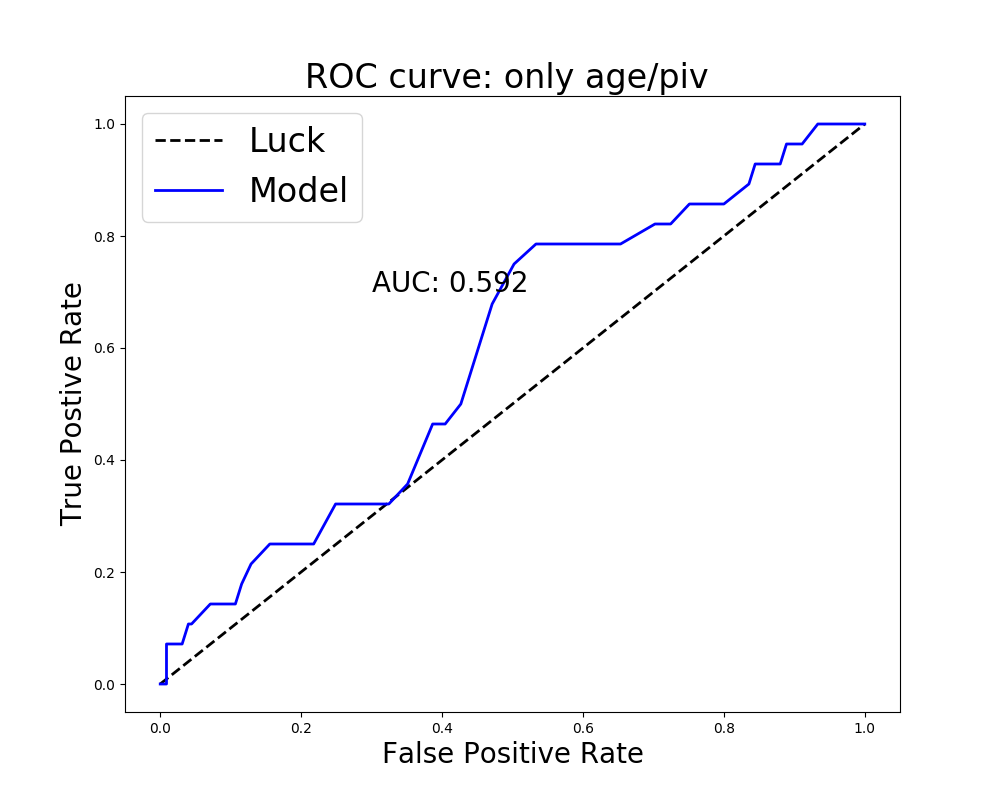
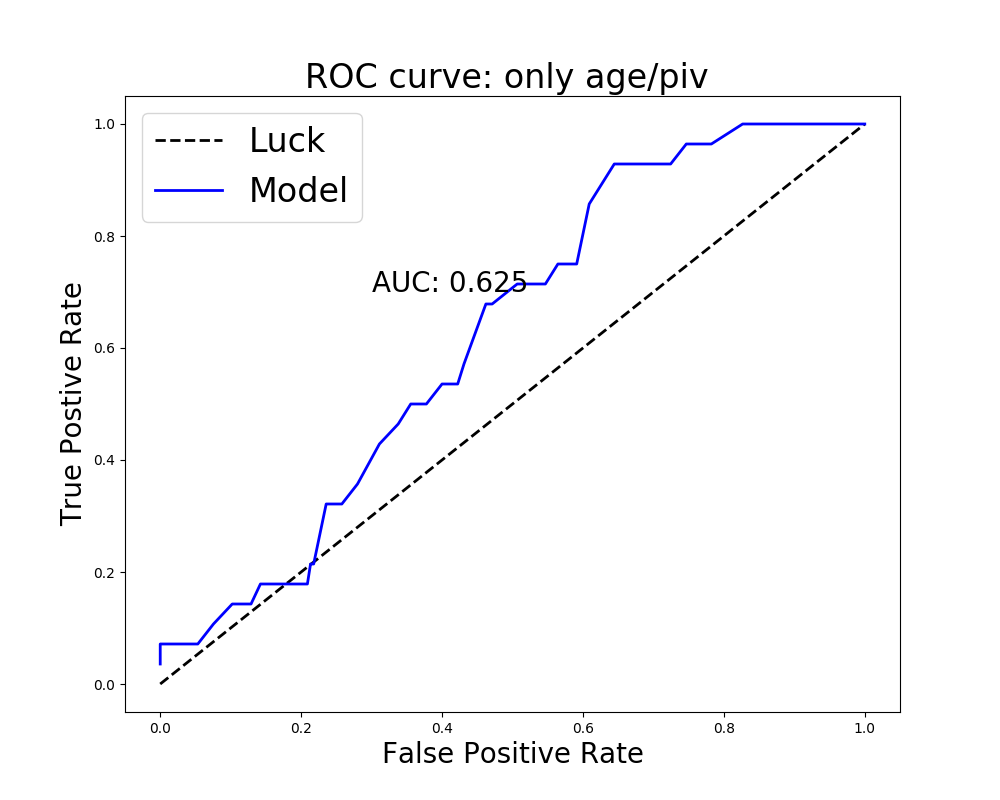
fixing figures

diff --git a/src/final_mod.py b/src/final_mod.py
@@ -31,23 +31,22 @@ X_train_3 = X_train.drop(['eth_african_american', 'eth_asian',
 X_test_1 = X_test.drop(['eth_african_american', 'eth_asian',
       'eth_mexican_hispanic', 'eth_mixed_race', 'eth_other_hispanic', 'thyroid_yes', 'physical_activity_some', 'physical_activity_moderate','physical_activity_vigorous','piv_yes'], axis = 1)
 
-model_sm = sm.Logit(y_test, sm.add_constant(X_test_1))
 
-print(model_sm.fit().summary())
 #std train data here
-model_final = LogisticRegression(class_weight={0:1, 1:10})
+model_final = LogisticRegression(class_weight='balanced')
 model_final.fit(X_train_3.values, y_train.values)
 
 # use same scaler to transform test X
 
 probs = model_final.predict_proba(X_test_1)[:, 1]
-probabilities = np.where(probs >= 0.5, 1, 0)
+probabilities = np.where(probs >= 0.4, 1, 0)
 probs1 = model_final.predict_proba(X_train_3)[:, 1]
-probabilities1 = np.where(probs1 >= 0.5, 1, 0)
+probabilities1 = np.where(probs1 >= 0.4, 1, 0)
 
 accuracy_final = metrics.accuracy_score(y_test, probabilities)
 precision_final = metrics.precision_score(y_test, probabilities)
 recall_final = metrics.recall_score(y_test, probabilities)
+recall_tr = metrics.recall_score(y_train, probabilities1)
 f1_score_final = metrics.f1_score(y_test, probabilities)
 
 fpr, tpr, thresholds = metrics.roc_curve(y_test, probs)
@@ -66,8 +65,8 @@ ax.plot(fpr1, tpr1, color='r', lw=2, label='Train Model')
 ax.set_xlabel("False Positive Rate", fontsize=20)
 ax.set_ylabel("True Postive Rate", fontsize=20)
 ax.set_title("ROC curve: Final Model", fontsize=24)
-ax.text(0.2, 0.7, " ".join(["AUC:",str(auc_final.round(3))]), fontsize=20, color = 'b')
-ax.text(0.2, 0.6, " ".join(['AUC:',str(auc_train.round(3))]), fontsize=20, color = 'r')
+ax.text(0.15, 0.65, " ".join(["AUC:",str(auc_final.round(3))]), fontsize=20, color = 'b')
+ax.text(0.15, 0.6, " ".join(['AUC:',str(auc_train.round(3))]), fontsize=20, color = 'r')
 ax.legend(fontsize=24)
 
 plt.savefig('../images/ROC_final.png')
@@ -104,20 +103,26 @@ def generate_confusion_matrix(y_test, y_pred, labels, title, filename, show=Fals
 generate_confusion_matrix(conf_y_true_lab, conf_y_pro_lab, labels = ['infertile', 'fertile'], title = "Confusion Matrix of Final Model", filename = '../images/confusion_mat.png', show = False)
 
 ############ running it on the final holdout:
+
 X_holdout, y_holdout, df_nodum_test, df_full_test = clean.clean_data(test_df)
 
 X_holdout = X_holdout.drop(['eth_african_american', 'eth_asian',
       'eth_mexican_hispanic', 'eth_mixed_race', 'eth_other_hispanic', 'thyroid_yes', 'physical_activity_some', 'physical_activity_moderate','physical_activity_vigorous', 'piv_yes'], axis = 1)
 
+model_sm = sm.Logit(y_holdout, sm.add_constant(X_holdout))
+
+print(model_sm.fit().summary())
+
 probs_h = model_final.predict_proba(X_holdout)[:, 1]
-probabilities_h = np.where(probs_h >= 0.5, 1, 0)
+probabilities_h = np.where(probs_h >= 0.4, 1, 0)
 probs1_h = model_final.predict_proba(X_train_3)[:, 1]
-probabilities1_h = np.where(probs1_h >= 0.5, 1, 0)
+probabilities1_h = np.where(probs1_h >= 0.4, 1, 0)
 
 accuracy_final_holdout = metrics.accuracy_score(y_holdout, probabilities_h)
 precision_final_holdout = metrics.precision_score(y_holdout, probabilities_h)
 recall_final_holdout = metrics.recall_score(y_holdout, probabilities_h)
 f1_score_final_holdout = metrics.f1_score(y_holdout, probabilities_h)
+recall_train = metrics.recall_score(y_train, probabilities1_h)
 
 fpr_h, tpr_h, thresholds_h = metrics.roc_curve(y_holdout, probs_h)
 fpr1_h, tpr1_h, thresholds1_h = metrics.roc_curve(y_train, probs1_h)
@@ -135,8 +140,8 @@ ax.plot(fpr1_h, tpr1_h, color='r', lw=2, label='Train Model')
 ax.set_xlabel("False Positive Rate", fontsize=20)
 ax.set_ylabel("True Postive Rate", fontsize=20)
 ax.set_title("ROC curve: Holdout Model", fontsize=24)
-ax.text(0.2, 0.7, " ".join(["AUC:",str(auc_final_holdout.round(3))]), fontsize=20, color = 'b')
-ax.text(0.2, 0.6, " ".join(['AUC:',str(auc_train_holdout.round(3))]), fontsize=20, color = 'r')
+ax.text(0.15, 0.65, " ".join(["AUC:",str(auc_final_holdout.round(3))]), fontsize=20, color = 'b')
+ax.text(0.15, 0.6, " ".join(['AUC:',str(auc_train_holdout.round(3))]), fontsize=20, color = 'r')
 ax.legend(fontsize=24)
 
 plt.savefig('../images/ROC_holdout.png')
@@ -146,24 +151,58 @@ conf_y_true = y_holdout.values
 conf_y_true_lab = np.where(conf_y_true == 0, 'fertile', 'infertile')
 conf_y_pro = probabilities_h
 conf_y_pro_lab = np.where(conf_y_pro == 0, 'fertile', 'infertile')
-generate_confusion_matrix(conf_y_true_lab, conf_y_pro_lab, labels = ['infertile', 'fertile'], title = "Confusion Matrix of Final Holdout Data", filename = '../images/confusion_mat_holdout.png', show = True)
+generate_confusion_matrix(conf_y_true_lab, conf_y_pro_lab, labels = ['infertile', 'fertile'], title = "Confusion Matrix of Final Holdout Data", filename = '../images/confusion_mat_holdout.png', show = False)
 
+print(recall_tr)
+print(recall_train)
 print(recall_final)
 print(recall_final_holdout)
 
-########## proportional bar chart
+########## proportional bar chart ############
 
 df_nodum_cat = df_nodum[['sti','irr_periods', 'smoke']]
-
-# df_longdum = pd.wide_to_long(df_nodum_cat)
-# var = df_nodum_cat.groupby(['sti','piv', 'irr_periods', 'smoke'])
-# df['proportion'] = df['value']/df.groupby(['Color','variable'])['value'].transform('sum')
 x_var = ['STIs',  'Irregular Periods', 'Smoking Status']
-sti_arr = df_nodum_cat['sti'].value_counts()/len(df_nodum_cat)
-# piv_arr = df_nodum_cat['piv'].value_counts()/len(df_nodum_cat)
-periods_arr = df_nodum_cat['irr_periods'].value_counts()/len(df_nodum_cat)
-smoke_arr = df_nodum_cat['smoke'].value_counts()/len(df_nodum_cat)
-#
-# first_ = np.array([])
-#
-# ind = [x for x, _ in enumerate(x_var)]
+sti_arr = df_nodum_cat['sti'].value_counts()
+periods_arr = df_nodum_cat['irr_periods'].value_counts()
+smoke_arr = df_nodum_cat['smoke'].value_counts()
+ind = [x for x, _ in enumerate(x_var)]
+no_ = np.array([sti_arr[0], periods_arr[0],smoke_arr[0]])
+yes_ = np.array([sti_arr[1], periods_arr[1],smoke_arr[1]])
+former_ = np.array([0, 0, smoke_arr[2]])
+
+total = len(df_nodum_cat)
+
+proportion_no = np.true_divide(no_, total) * 100
+proportion_yes = np.true_divide(yes_, total) * 100
+proportion_former = np.true_divide(former_, total) * 100
+
+plt.figure(figsize=(15,16))
+plt.bar(ind, proportion_former, width=0.8, label='Former Smoker', color='gray', bottom=proportion_no + proportion_yes)
+plt.bar(ind, proportion_yes, width=0.8, label='Yes or Current Smoker', color='salmon', bottom=proportion_no)
+plt.bar(ind, proportion_no, width=0.8, label='No or Never Smoker', color='navy')
+
+plt.xticks(ind, x_var, fontsize = 14)
+plt.ylabel("Percent (%)", fontsize = 16)
+plt.xlabel("Categorical Parameters", fontsize = 16)
+plt.title("Proportional Percent of Categorical Parameters in Training Data", fontsize = 18)
+plt.ylim=1.0
+plt.legend(loc='upper center', bbox_to_anchor=(1, -0.034))
+
+plt.savefig('../images/proportionalcats.png')
+
+################## Continuous boxplot with distributions #############
+df_nodum_cont = df_nodum[['fert_stat','age', 'bmi', 'alcohol']]
+df_nodum_cont['Fertility Status'] = np.where(df_nodum_cont['fert_stat']=='no', 'Fertile', 'Infertile')
+df_nodum_cont.drop('fert_stat', inplace = True, axis = 1)
+
+pplot = sns.pairplot(df_nodum_cont, hue = 'Fertility Status', palette={'Fertile':"navy", 'Infertile':"salmon"}, plot_kws={"s": 27, 'alpha': 0.5})
+pplot.savefig('../images/pairplot.png')
+
+fig, axs = plt.subplots(ncols=3)
+
+sns.boxplot(x = "Fertility Status", y = "age", data = df_nodum_cont, palette={'Fertile':"navy", 'Infertile':"salmon"},boxprops={'alpha':.5}, ax = axs[0]).xaxis.label.set_visible(False)
+sns.boxplot(x = "Fertility Status", y = "bmi", data = df_nodum_cont,palette={'Fertile':"navy", 'Infertile':"salmon"},boxprops={'alpha':.5}, ax = axs[1]).xaxis.label.set_visible(False)
+sns.boxplot(x = "Fertility Status", y = "alcohol", data = df_nodum_cont,palette={'Fertile':"navy", 'Infertile':"salmon"},boxprops={'alpha':.5}, ax = axs[2]).xaxis.label.set_visible(False)
+plt.xlabel("Fertility Status")
+plt.tight_layout()
+plt.savefig('../images/boxplot_by.png')

diff --git a/README.md b/README.md
@@ -49,29 +49,41 @@ For the purposes of this analysis I have excluded women who have had a hysterect
 In the NHANES dataset, there are two questions asked:
 * “Have you/spouse ever attempted to become pregnant over a period of at least a year without becoming pregnant?”
 * “Have you or your spouse ever been to a doctor or other medical provider because you or she has been unable to become pregnant?”
+
 Those participants that said “Yes” to one of either of the two questions are infertile and those that said “No” as fertile.
 
-* From model, age and pelvic inflammatory disease were significant (Stats models)
+### EDA:
+*note, I'm only showing EDA on those variables I kept in my final model*
 
+#### Continuous Variables: Age, BMI, Alcohol
+![](images/pairplot.png)
+![](images/boxplot_by.png)
 
-Coeffs from the final holdout model
-==============================
-                      coef    
------------------------------
-const              -4.9381      
-age                 0.0421      
-alcohol             0.1357      
-bmi                 0.0266     
-sti_yes            -0.2657      
-piv_yes             0.9422      
-irr_periods_yes     0.0356      
-smoke_current      -0.2916     
-smoke_former       -0.4855      
-=============================
+#### Categorical Variables: STIs (yes/no), Irregular Periods (yes/no), Smoking Status (Current/Former/Never)
 
+![](images/proportionalcats.png)
 
-The recall from my first test 0.786
-The recall from my final hold out was 0.743
+```python
+Coefs from the final holdout model using Stats Models
+                      coef     P>|z|
+---------------------------------------------------------------
+
+Intercept          -4.0289     0.000      
+Age                 0.0595     0.005      
+Alcohol             0.0750     0.164     
+BMI                -0.0116     0.627      
+STI_yes            -0.5830     0.378     
+Irr Periods_yes    -0.9072     0.109      
+Current Smoke       0.0481     0.926    
+Former Smoke        0.7921     0.109     
+```
+Because age is significant, we can look at the exp(0.0595) = 1.06
+
+** Holding all else constant, on average, with a one year increase in age, the odds increases by 6% among those that are infertile compared to those that are fertile.**
+
+The recall from my training model 0.910
+The recall from my first test 0.893
+The recall from my final hold out was 0.886
 
 
 
